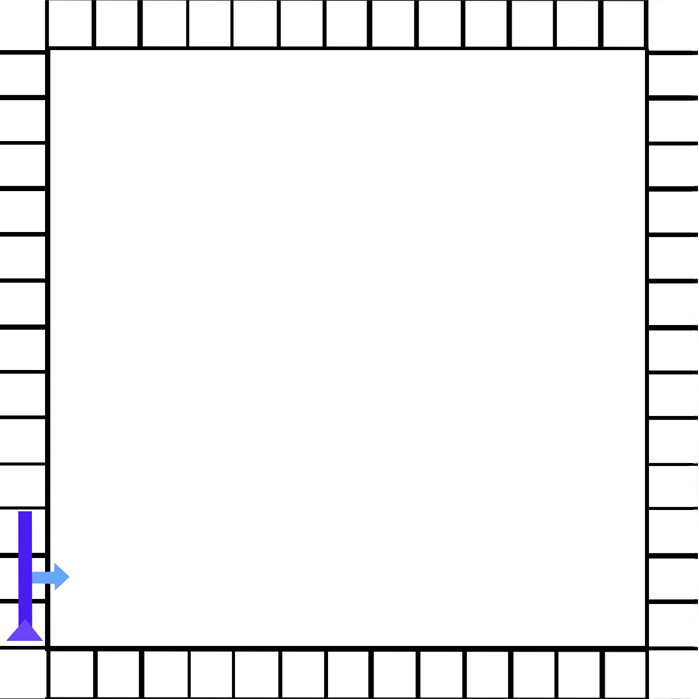
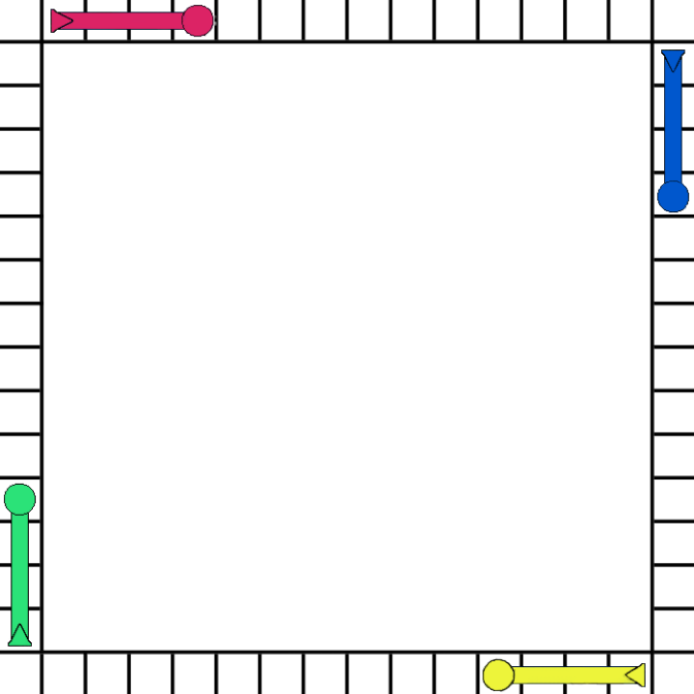
Fixed board in size and appearence

Changed region(s): [[0.0, 0.0, 1.0, 1.0]]

diff --git a/index.html b/index.html
@@ -35,13 +35,13 @@
     <div class="text1">Brennan and Matthew Present SORRY!</div></div>
         <h1> 
         <a href="Rule set from Wikipedia.pdf" style="color:yellowgreen">Read the rules here!</a></h1>
-    <img id="sorry" src="SorryBoard.png">
+    <img id="sorry" src="sorryboard.png">
     <img id='sphirby' src="sphirby.png"> 
     <img id='Kengar' src="Kengar.png">
     <img id="Kloom" src="Kloom.png">
     <img id="Girby" src="Girby.png">
     <div style="text-align:center;">
-        <canvas id="canvas" width="699" height="699" style="border:5px solid blue;"></canvas>
+        <canvas id="canvas" width="694" height="694" style="border:5px solid blue;"></canvas>
     </div>
    
     <script>
@@ -54,10 +54,10 @@
             var Kloom=document.getElementById('Kloom')
             var Girby=document.getElementById('Girby')
             context.drawImage(Board, 0, 0);
-            context.drawImage(sphirby, 650, 0);
-            context.drawImage(Kengar, 0, 650);
-            context.drawImage(Kloom, 650, 650);
-            context.drawImage(Girby, 0, 0);
+            context.drawImage(sphirby, 39+44+44, 0);
+            context.drawImage(Kengar, 180, 70);
+            context.drawImage(Kloom, 180, 70);
+            context.drawImage(Girby, 180, 70);
         };
 
 </script>
